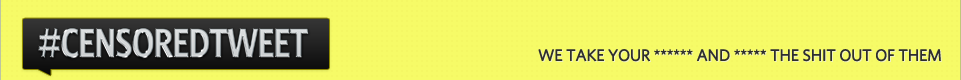
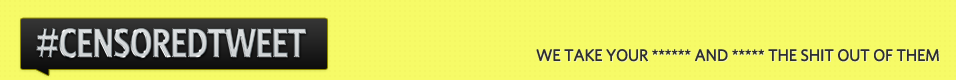
fixed namespace issue for css

Changed region(s): [[0.0, 0.225, 0.3337, 0.95], [0.546, 0.6, 1.0, 0.775]]

diff --git a/public/stylesheets/screen.css b/public/stylesheets/screen.css
@@ -532,36 +532,50 @@ body.bp {
 body.bp #container {
   background-image: url("/images/bg.png");
 }
-/* line 9, ../../app/stylesheets/partials/_application.scss */
+/* line 8, ../../app/stylesheets/partials/_application.scss */
+body.bp #header {
+  background-color: #f1ff5f;
+}
+/* line 10, ../../app/stylesheets/partials/_application.scss */
 body.bp #header #welcome-user {
   margin-left: 20px;
 }
+/* line 13, ../../app/stylesheets/partials/_application.scss */
+body.bp #header .header-logo {
+  margin: 20px;
+}
 /* line 14, ../../app/stylesheets/partials/_application.scss */
+body.bp #header .header-text {
+  margin-top: 40px;
+  margin-right: 40px;
+  float: right;
+}
+/* line 21, ../../app/stylesheets/partials/_application.scss */
 body.bp #content {
   width: 650px;
   margin: 20px;
 }
-/* line 19, ../../app/stylesheets/partials/_application.scss */
+/* line 26, ../../app/stylesheets/partials/_application.scss */
 body.bp #sidebar {
   float: right;
   width: 230px;
   margin-right: 20px;
 }
 
-/* line 1, ../../app/stylesheets/partials/_henron.scss */
-#content.head2head {
+/* line 2, ../../app/stylesheets/partials/_henron.scss */
+.head2head #content {
   height: 600px;
 }
-/* line 3, ../../app/stylesheets/partials/_henron.scss */
-#content.head2head #tweet_1 {
+/* line 4, ../../app/stylesheets/partials/_henron.scss */
+.head2head #content #tweet_1 {
   left: 155px;
 }
-/* line 6, ../../app/stylesheets/partials/_henron.scss */
-#content.head2head #tweet_2 {
+/* line 7, ../../app/stylesheets/partials/_henron.scss */
+.head2head #content #tweet_2 {
   right: 155px;
 }
-/* line 9, ../../app/stylesheets/partials/_henron.scss */
-#content.head2head #versus {
+/* line 10, ../../app/stylesheets/partials/_henron.scss */
+.head2head #content #versus {
   position: absolute;
   width: 75px;
   height: 72px;
@@ -569,9 +583,8 @@ body.bp #sidebar {
   top: 285px;
   background-image: url("/images/vs.png");
 }
-
-/* line 20, ../../app/stylesheets/partials/_henron.scss */
-.tweets {
+/* line 21, ../../app/stylesheets/partials/_henron.scss */
+.head2head .tweets {
   position: absolute;
   height: 250px;
   width: 370px;
@@ -583,9 +596,8 @@ body.bp #sidebar {
   -o-box-shadow: rgba(0, 0, 0, 0.4) 0 0 15px, rgba(0, 128, 0, 0.2) 0 0 3px 0px inset;
   box-shadow: rgba(0, 0, 0, 0.4) 0 0 15px, rgba(0, 128, 0, 0.2) 0 0 3px 0px inset;
 }
-
-/* line 30, ../../app/stylesheets/partials/_henron.scss */
-.bottom-bar {
+/* line 31, ../../app/stylesheets/partials/_henron.scss */
+.head2head .bottom-bar {
   background: #eaf9f9;
   font-size: 14px;
   position: absolute;
@@ -593,26 +605,24 @@ body.bp #sidebar {
   width: 100%;
   right: 0px;
 }
-/* line 37, ../../app/stylesheets/partials/_henron.scss */
-.bottom-bar img {
+/* line 38, ../../app/stylesheets/partials/_henron.scss */
+.head2head .bottom-bar img {
   width: 48px;
   margin: 0px 10px;
   float: left;
   padding: 2px;
   border: solid 1px #6e6e6e;
 }
-/* line 44, ../../app/stylesheets/partials/_henron.scss */
-.bottom-bar .vote {
+/* line 45, ../../app/stylesheets/partials/_henron.scss */
+.head2head .bottom-bar .vote {
   margin: 10px 0px;
   text-align: center;
 }
-
-/* line 50, ../../app/stylesheets/partials/_henron.scss */
-.tweet {
+/* line 51, ../../app/stylesheets/partials/_henron.scss */
+.head2head .tweet {
   margin: 20px 10px;
 }
-
-/* line 54, ../../app/stylesheets/partials/_henron.scss */
-.tweet .tweet-text {
+/* line 55, ../../app/stylesheets/partials/_henron.scss */
+.head2head .tweet .tweet-text {
   font-size: 22px;
 }

diff --git a/app/stylesheets/partials/_henron.scss b/app/stylesheets/partials/_henron.scss
@@ -1,56 +1,58 @@
-#content.head2head {
-	height: 600px;
-	#tweet_1 { 
-		left: 155px;
+.head2head{
+	#content {
+		height: 600px;
+		#tweet_1 { 
+			left: 155px;
+		}
+		#tweet_2 {
+			right: 155px;
+		}	
+		#versus {
+			position:absolute;
+			width: 75px;
+			height: 72px;
+			left: 47%;
+			top: 285px;
+			background-image: url("/images/vs.png");
+		}
 	}
-	#tweet_2 {
-		right: 155px;
+
+
+	.tweets{
+		position: absolute;
+		height: 250px;
+		width: 370px;
+		margin: 20px;
+		background: #deeff0;
+		padding: 5px;	
+		@include box-shadow(rgba(black, 0.4) 0 0 15px, rgba(green, 0.2) 0 0 3px 0px inset);
+	}
+
+	.bottom-bar{
+		background: #eaf9f9;
+		font-size: 14px;
+		position: absolute;
+		bottom: 0px;
+		width: 100%;
+		right: 0px;
+		img {
+			width: 48px;
+			margin: 0px 10px;
+			float: left;
+			padding: 2px;
+			border: solid 1px #6e6e6e;
+		}
+		.vote {
+			margin: 10px 0px;
+			text-align: center;
+		}
+	}
+
+	.tweet {
+		margin:20px 10px;
+	}
+
+	.tweet .tweet-text{
+		font-size: 22px;
 	}	
-	#versus {
-		position:absolute;
-		width: 75px;
-		height: 72px;
-		left: 47%;
-		top: 285px;
-		background-image: url("/images/vs.png");
-	}
-}
-
-
-.tweets{
-	position: absolute;
-	height: 250px;
-	width: 370px;
-	margin: 20px;
-	background: #deeff0;
-	padding: 5px;	
-	@include box-shadow(rgba(black, 0.4) 0 0 15px, rgba(green, 0.2) 0 0 3px 0px inset);
-}
-
-.bottom-bar{
-	background: #eaf9f9;
-	font-size: 14px;
-	position: absolute;
-	bottom: 0px;
-	width: 100%;
-	right: 0px;
-	img {
-		width: 48px;
-		margin: 0px 10px;
-		float: left;
-		padding: 2px;
-		border: solid 1px #6e6e6e;
-	}
-	.vote {
-		margin: 10px 0px;
-		text-align: center;
-	}
-}
-
-.tweet {
-	margin:20px 10px;
-}
-
-.tweet .tweet-text{
-	font-size: 22px;
 }

diff --git a/app/stylesheets/partials/_application.scss b/app/stylesheets/partials/_application.scss
@@ -6,8 +6,15 @@ body.bp {
 	}
 	
 	#header {
+		background-color: $primary-bg;
 		#welcome-user {
 			margin-left: 20px;
+		}
+		.header-logo{ margin: 20px; }
+		.header-text{ 
+			margin-top: 40px;
+			margin-right: 40px;
+			float: right;
 		}
 	}
 	
